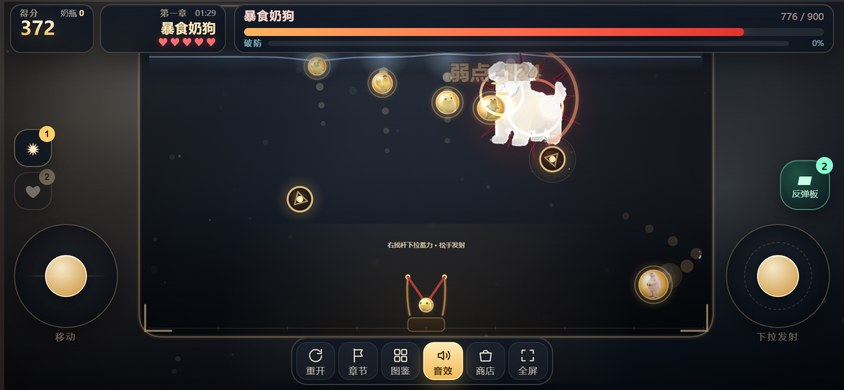
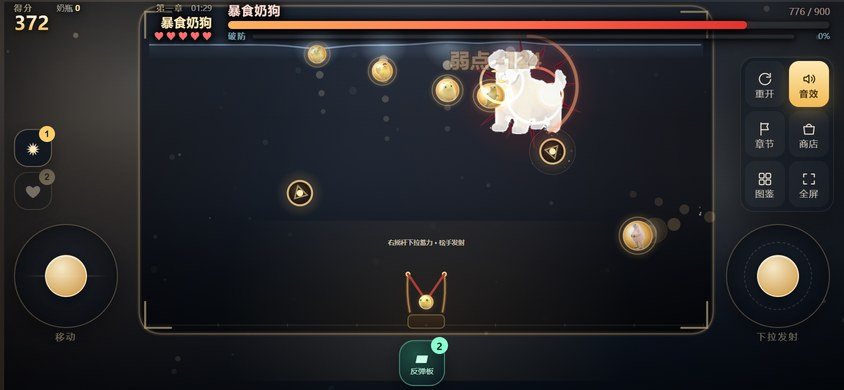
style(横屏): HUD 去黑框改投影；6 个功能键移到右上角；反弹板移到底部正中
1) HUD 去掉卡片底色（得分/章节/Boss 名/血条都改成无背景 + drop-shadow）
   横屏只有 390 高，带底色的卡片正好压在场地顶部、把 Boss 挡掉一截。
   现在只靠投影保证在动态背景上可读，Boss 完全露出；HUD 高度 49 -> 40px。
   血条本体保留（那是玩法信息不是装饰），加描边阴影让它从背景里浮起来。

2) 6 个功能键从底部中央搬到右上角留白区，改成 2 列 x 3 行的图标格
   原来贴在弹弓正下方，拇指操作时容易误触，视觉上也把场地切了一块。
   实测 94x156，完整落在场地右侧留白内（不压场地）。

3) 反弹板按钮移到最底部正中（left:50% + margin-left 居中，
   避开 :active/.arm 的 transform:scale 会覆盖 translateX 的坑）。

4) layout() 修正：横屏不再用 dock 的 top 当场地底边
   （dock 搬到右上角后会把场地压成 58px 高），改为固定底部留白。

冒烟测试补充三条断言：HUD 背景必须为 none 且保留投影、dock 不得进入下半屏/不得压场地、
反弹板距底 <=12px 且不与 dock 重叠。23 项全通过。

diff --git a/index.html b/index.html
@@ -632,47 +632,75 @@ body.playing #bPlate.arm{
 @media (orientation:landscape){
   #hud{
     left:0;right:0;transform:none;width:auto;
-    top:calc(var(--sat) + 4px);padding:0 10px;
+    top:calc(var(--sat) + 2px);padding:0 10px;
     flex-direction:row;align-items:flex-start;gap:8px;
   }
   .hud-row{flex:0 0 auto;gap:6px;align-items:stretch}
-  .hud-card{padding:3px 9px 4px;border-radius:11px}
-  .score-card{min-width:84px}
+
+  /* ---- HUD 去框：只留文字 + 阴影 ----
+     横屏只有 390 高，场地顶边就在 HUD 下方，带底色的卡片会把 Boss 盖住。
+     改成无背景、纯投影：靠 drop-shadow 保证在动态背景上依然读得清。 */
+  .hud-card,.boss-bar{
+    background:none;border:none;border-radius:0;padding:0 2px;
+    backdrop-filter:none;-webkit-backdrop-filter:none;box-shadow:none;
+    filter:drop-shadow(0 1px 3px rgba(0,0,0,.95)) drop-shadow(0 0 6px rgba(0,0,0,.75));
+  }
+  .hud-card{padding:1px 4px 0}
+  .boss-bar{flex:1 1 auto;min-width:0;padding:0 4px}
+  .score-card{min-width:74px}
   .score-card strong{font-size:19px;line-height:1.02}
   .lbl,.best{font-size:8px}
-  /* 中间：Boss 血条撑满剩余宽度 */
-  .boss-bar{
-    flex:1 1 auto;min-width:0;
-    background:linear-gradient(180deg,rgba(13,22,36,.80),rgba(8,14,24,.62));
-    border:1px solid var(--line);border-radius:11px;padding:3px 9px 4px;
-    backdrop-filter:blur(14px);-webkit-backdrop-filter:blur(14px);
-  }
-  .bb-top{font-size:9px}
+  #bossName{font-size:12.5px;text-shadow:0 1px 4px rgba(0,0,0,.9)}
+  #bossHpText{font-size:9px}
+  #levelName{font-size:12.5px;text-shadow:0 1px 4px rgba(0,0,0,.9)}
+  #chapLabel,#timerLabel{text-shadow:0 1px 3px rgba(0,0,0,.9)}
+  .hearts i{filter:drop-shadow(0 1px 3px rgba(0,0,0,.95))}
+  .bb-top{font-size:9px;margin-bottom:3px}
+  /* 血条本体保留（那是玩法信息，不是装饰框），只加深描边让它从背景里浮起来 */
+  .bb-track{box-shadow:0 1px 4px rgba(0,0,0,.75),inset 0 0 0 1px rgba(0,0,0,.35)}
   .brk-row{margin-top:2px;gap:5px}
-  .brk-lbl,.brk-pct{font-size:8px}
+  .brk-lbl,.brk-pct{font-size:8px;text-shadow:0 1px 3px rgba(0,0,0,.9)}
   /* 这行提示横屏太占高度，而且属于上手一次就够的信息 */
   .bb-foot{display:none}
-  #buffs{flex:0 0 auto;max-width:22vw;flex-wrap:wrap;justify-content:flex-end}
-  .buff-chip{font-size:8px;padding:1px 5px}
+  #buffs{flex:0 0 auto;max-width:20vw;flex-wrap:wrap;justify-content:flex-end;gap:3px;
+         filter:drop-shadow(0 1px 3px rgba(0,0,0,.9))}
+  .buff-chip{font-size:8px;padding:1px 5px;background:rgba(10,16,26,.42);border-color:rgba(255,255,255,.10)}
 
-  /* dock 压矮，把高度让给场地 */
+  /* ---- 6 个功能键搬到右上角竖排（原来压在底部中央，紧挨弹弓、容易误触） ----
+     竖排会挡住右摇杆，所以排成 2 列 × 3 行。 */
   #dock{
-    width:auto;left:50%;right:auto;
-    padding:4px;gap:3px;border-radius:16px;
-    bottom:calc(var(--sab) + 5px);
+    left:auto;right:10px;bottom:auto;transform:none;
+    top:calc(var(--sat) + 56px);
+    width:auto;padding:4px;gap:4px;border-radius:14px;
+    flex-direction:column;flex-wrap:wrap;max-height:158px;
+    background:rgba(8,14,24,.42);border-color:rgba(255,255,255,.06);
+    backdrop-filter:blur(10px);-webkit-backdrop-filter:blur(10px);
   }
-  .dock-btn{padding:4px 9px 3px;border-radius:11px;gap:1px}
-  .dock-btn svg{width:17px;height:17px}
-  .dock-btn .tx{font-size:8px}
+  .dock-btn{
+    flex:0 0 auto;width:40px;height:46px;
+    padding:4px 0 3px;border-radius:10px;gap:1px;
+    background:rgba(255,255,255,.035);border:none;
+  }
+  .dock-btn svg{width:16px;height:16px}
+  .dock-btn .tx{font-size:7.5px;letter-spacing:0}
 
-  /* 摇杆：横屏两侧空间充裕，放在 dock 上方 */
+  /* ---- 摇杆 ---- */
   .stick{width:104px;height:104px;bottom:calc(var(--sab) + 62px)}
   .stick .knob{width:42px;height:42px;margin:-21px 0 0 -21px}
   #stickL{left:14px}
   #stickR{right:14px}
 
   #itemBar{bottom:calc(var(--sab) + 180px);left:14px;gap:5px}
-  #bPlate{bottom:calc(var(--sab) + 180px);right:14px;width:50px;height:50px}
+
+  /* ---- 反弹板按钮挪到最底部正中（原来在右侧，和摇杆抢位置） ----
+     用 margin-left 居中而不是 transform，避免和 :active/.arm 的 scale 相互覆盖。 */
+  #bPlate{
+    left:50%;right:auto;margin-left:-23px;
+    bottom:calc(var(--sab) + 4px);
+    width:46px;height:46px;border-radius:15px;
+  }
+  #bPlate .ico{font-size:13px}
+  #bPlate .tx{font-size:7.5px}
 }
 
 /* 竖屏时提示转横屏（原来反过来：横屏提示转竖屏） */
@@ -1597,7 +1625,13 @@ function layout(){
   var dockTop = dock ? dock.getBoundingClientRect().top : (H - SAFE_B - 82);
 
   view.top = 4;
-  view.bottom = Math.round(dockTop - 2);
+  if(W > H){
+    /* 横屏下 dock 已搬到右上角，不能再拿它的 top 当场地底边（否则场地会被压成几十像素）。
+       底部固定留出「反弹板」按钮的高度。 */
+    view.bottom = Math.round(H - SAFE_B - 58);
+  } else {
+    view.bottom = Math.round(dockTop - 2);
+  }
   view.h = view.bottom - view.top;
   /* 宽屏不再死卡 760：宽度跟随高度放开，横屏/桌面场地更宽。
      横屏时两侧要留给摇杆（各约 120~140px），中间尽量放宽——场地越宽，左右闪避越有意义。 */

diff --git a/奶系弹珠_弹射讨伐.html b/奶系弹珠_弹射讨伐.html
@@ -632,47 +632,75 @@ body.playing #bPlate.arm{
 @media (orientation:landscape){
   #hud{
     left:0;right:0;transform:none;width:auto;
-    top:calc(var(--sat) + 4px);padding:0 10px;
+    top:calc(var(--sat) + 2px);padding:0 10px;
     flex-direction:row;align-items:flex-start;gap:8px;
   }
   .hud-row{flex:0 0 auto;gap:6px;align-items:stretch}
-  .hud-card{padding:3px 9px 4px;border-radius:11px}
-  .score-card{min-width:84px}
+
+  /* ---- HUD 去框：只留文字 + 阴影 ----
+     横屏只有 390 高，场地顶边就在 HUD 下方，带底色的卡片会把 Boss 盖住。
+     改成无背景、纯投影：靠 drop-shadow 保证在动态背景上依然读得清。 */
+  .hud-card,.boss-bar{
+    background:none;border:none;border-radius:0;padding:0 2px;
+    backdrop-filter:none;-webkit-backdrop-filter:none;box-shadow:none;
+    filter:drop-shadow(0 1px 3px rgba(0,0,0,.95)) drop-shadow(0 0 6px rgba(0,0,0,.75));
+  }
+  .hud-card{padding:1px 4px 0}
+  .boss-bar{flex:1 1 auto;min-width:0;padding:0 4px}
+  .score-card{min-width:74px}
   .score-card strong{font-size:19px;line-height:1.02}
   .lbl,.best{font-size:8px}
-  /* 中间：Boss 血条撑满剩余宽度 */
-  .boss-bar{
-    flex:1 1 auto;min-width:0;
-    background:linear-gradient(180deg,rgba(13,22,36,.80),rgba(8,14,24,.62));
-    border:1px solid var(--line);border-radius:11px;padding:3px 9px 4px;
-    backdrop-filter:blur(14px);-webkit-backdrop-filter:blur(14px);
-  }
-  .bb-top{font-size:9px}
+  #bossName{font-size:12.5px;text-shadow:0 1px 4px rgba(0,0,0,.9)}
+  #bossHpText{font-size:9px}
+  #levelName{font-size:12.5px;text-shadow:0 1px 4px rgba(0,0,0,.9)}
+  #chapLabel,#timerLabel{text-shadow:0 1px 3px rgba(0,0,0,.9)}
+  .hearts i{filter:drop-shadow(0 1px 3px rgba(0,0,0,.95))}
+  .bb-top{font-size:9px;margin-bottom:3px}
+  /* 血条本体保留（那是玩法信息，不是装饰框），只加深描边让它从背景里浮起来 */
+  .bb-track{box-shadow:0 1px 4px rgba(0,0,0,.75),inset 0 0 0 1px rgba(0,0,0,.35)}
   .brk-row{margin-top:2px;gap:5px}
-  .brk-lbl,.brk-pct{font-size:8px}
+  .brk-lbl,.brk-pct{font-size:8px;text-shadow:0 1px 3px rgba(0,0,0,.9)}
   /* 这行提示横屏太占高度，而且属于上手一次就够的信息 */
   .bb-foot{display:none}
-  #buffs{flex:0 0 auto;max-width:22vw;flex-wrap:wrap;justify-content:flex-end}
-  .buff-chip{font-size:8px;padding:1px 5px}
+  #buffs{flex:0 0 auto;max-width:20vw;flex-wrap:wrap;justify-content:flex-end;gap:3px;
+         filter:drop-shadow(0 1px 3px rgba(0,0,0,.9))}
+  .buff-chip{font-size:8px;padding:1px 5px;background:rgba(10,16,26,.42);border-color:rgba(255,255,255,.10)}
 
-  /* dock 压矮，把高度让给场地 */
+  /* ---- 6 个功能键搬到右上角竖排（原来压在底部中央，紧挨弹弓、容易误触） ----
+     竖排会挡住右摇杆，所以排成 2 列 × 3 行。 */
   #dock{
-    width:auto;left:50%;right:auto;
-    padding:4px;gap:3px;border-radius:16px;
-    bottom:calc(var(--sab) + 5px);
+    left:auto;right:10px;bottom:auto;transform:none;
+    top:calc(var(--sat) + 56px);
+    width:auto;padding:4px;gap:4px;border-radius:14px;
+    flex-direction:column;flex-wrap:wrap;max-height:158px;
+    background:rgba(8,14,24,.42);border-color:rgba(255,255,255,.06);
+    backdrop-filter:blur(10px);-webkit-backdrop-filter:blur(10px);
   }
-  .dock-btn{padding:4px 9px 3px;border-radius:11px;gap:1px}
-  .dock-btn svg{width:17px;height:17px}
-  .dock-btn .tx{font-size:8px}
+  .dock-btn{
+    flex:0 0 auto;width:40px;height:46px;
+    padding:4px 0 3px;border-radius:10px;gap:1px;
+    background:rgba(255,255,255,.035);border:none;
+  }
+  .dock-btn svg{width:16px;height:16px}
+  .dock-btn .tx{font-size:7.5px;letter-spacing:0}
 
-  /* 摇杆：横屏两侧空间充裕，放在 dock 上方 */
+  /* ---- 摇杆 ---- */
   .stick{width:104px;height:104px;bottom:calc(var(--sab) + 62px)}
   .stick .knob{width:42px;height:42px;margin:-21px 0 0 -21px}
   #stickL{left:14px}
   #stickR{right:14px}
 
   #itemBar{bottom:calc(var(--sab) + 180px);left:14px;gap:5px}
-  #bPlate{bottom:calc(var(--sab) + 180px);right:14px;width:50px;height:50px}
+
+  /* ---- 反弹板按钮挪到最底部正中（原来在右侧，和摇杆抢位置） ----
+     用 margin-left 居中而不是 transform，避免和 :active/.arm 的 scale 相互覆盖。 */
+  #bPlate{
+    left:50%;right:auto;margin-left:-23px;
+    bottom:calc(var(--sab) + 4px);
+    width:46px;height:46px;border-radius:15px;
+  }
+  #bPlate .ico{font-size:13px}
+  #bPlate .tx{font-size:7.5px}
 }
 
 /* 竖屏时提示转横屏（原来反过来：横屏提示转竖屏） */
@@ -1597,7 +1625,13 @@ function layout(){
   var dockTop = dock ? dock.getBoundingClientRect().top : (H - SAFE_B - 82);
 
   view.top = 4;
-  view.bottom = Math.round(dockTop - 2);
+  if(W > H){
+    /* 横屏下 dock 已搬到右上角，不能再拿它的 top 当场地底边（否则场地会被压成几十像素）。
+       底部固定留出「反弹板」按钮的高度。 */
+    view.bottom = Math.round(H - SAFE_B - 58);
+  } else {
+    view.bottom = Math.round(dockTop - 2);
+  }
   view.h = view.bottom - view.top;
   /* 宽屏不再死卡 760：宽度跟随高度放开，横屏/桌面场地更宽。
      横屏时两侧要留给摇杆（各约 120~140px），中间尽量放宽——场地越宽，左右闪避越有意义。 */

diff --git a/src/parts/style.css b/src/parts/style.css
@@ -623,47 +623,75 @@ body.playing #bPlate.arm{
 @media (orientation:landscape){
   #hud{
     left:0;right:0;transform:none;width:auto;
-    top:calc(var(--sat) + 4px);padding:0 10px;
+    top:calc(var(--sat) + 2px);padding:0 10px;
     flex-direction:row;align-items:flex-start;gap:8px;
   }
   .hud-row{flex:0 0 auto;gap:6px;align-items:stretch}
-  .hud-card{padding:3px 9px 4px;border-radius:11px}
-  .score-card{min-width:84px}
+
+  /* ---- HUD 去框：只留文字 + 阴影 ----
+     横屏只有 390 高，场地顶边就在 HUD 下方，带底色的卡片会把 Boss 盖住。
+     改成无背景、纯投影：靠 drop-shadow 保证在动态背景上依然读得清。 */
+  .hud-card,.boss-bar{
+    background:none;border:none;border-radius:0;padding:0 2px;
+    backdrop-filter:none;-webkit-backdrop-filter:none;box-shadow:none;
+    filter:drop-shadow(0 1px 3px rgba(0,0,0,.95)) drop-shadow(0 0 6px rgba(0,0,0,.75));
+  }
+  .hud-card{padding:1px 4px 0}
+  .boss-bar{flex:1 1 auto;min-width:0;padding:0 4px}
+  .score-card{min-width:74px}
   .score-card strong{font-size:19px;line-height:1.02}
   .lbl,.best{font-size:8px}
-  /* 中间：Boss 血条撑满剩余宽度 */
-  .boss-bar{
-    flex:1 1 auto;min-width:0;
-    background:linear-gradient(180deg,rgba(13,22,36,.80),rgba(8,14,24,.62));
-    border:1px solid var(--line);border-radius:11px;padding:3px 9px 4px;
-    backdrop-filter:blur(14px);-webkit-backdrop-filter:blur(14px);
-  }
-  .bb-top{font-size:9px}
+  #bossName{font-size:12.5px;text-shadow:0 1px 4px rgba(0,0,0,.9)}
+  #bossHpText{font-size:9px}
+  #levelName{font-size:12.5px;text-shadow:0 1px 4px rgba(0,0,0,.9)}
+  #chapLabel,#timerLabel{text-shadow:0 1px 3px rgba(0,0,0,.9)}
+  .hearts i{filter:drop-shadow(0 1px 3px rgba(0,0,0,.95))}
+  .bb-top{font-size:9px;margin-bottom:3px}
+  /* 血条本体保留（那是玩法信息，不是装饰框），只加深描边让它从背景里浮起来 */
+  .bb-track{box-shadow:0 1px 4px rgba(0,0,0,.75),inset 0 0 0 1px rgba(0,0,0,.35)}
   .brk-row{margin-top:2px;gap:5px}
-  .brk-lbl,.brk-pct{font-size:8px}
+  .brk-lbl,.brk-pct{font-size:8px;text-shadow:0 1px 3px rgba(0,0,0,.9)}
   /* 这行提示横屏太占高度，而且属于上手一次就够的信息 */
   .bb-foot{display:none}
-  #buffs{flex:0 0 auto;max-width:22vw;flex-wrap:wrap;justify-content:flex-end}
-  .buff-chip{font-size:8px;padding:1px 5px}
+  #buffs{flex:0 0 auto;max-width:20vw;flex-wrap:wrap;justify-content:flex-end;gap:3px;
+         filter:drop-shadow(0 1px 3px rgba(0,0,0,.9))}
+  .buff-chip{font-size:8px;padding:1px 5px;background:rgba(10,16,26,.42);border-color:rgba(255,255,255,.10)}
 
-  /* dock 压矮，把高度让给场地 */
+  /* ---- 6 个功能键搬到右上角竖排（原来压在底部中央，紧挨弹弓、容易误触） ----
+     竖排会挡住右摇杆，所以排成 2 列 × 3 行。 */
   #dock{
-    width:auto;left:50%;right:auto;
-    padding:4px;gap:3px;border-radius:16px;
-    bottom:calc(var(--sab) + 5px);
+    left:auto;right:10px;bottom:auto;transform:none;
+    top:calc(var(--sat) + 56px);
+    width:auto;padding:4px;gap:4px;border-radius:14px;
+    flex-direction:column;flex-wrap:wrap;max-height:158px;
+    background:rgba(8,14,24,.42);border-color:rgba(255,255,255,.06);
+    backdrop-filter:blur(10px);-webkit-backdrop-filter:blur(10px);
   }
-  .dock-btn{padding:4px 9px 3px;border-radius:11px;gap:1px}
-  .dock-btn svg{width:17px;height:17px}
-  .dock-btn .tx{font-size:8px}
+  .dock-btn{
+    flex:0 0 auto;width:40px;height:46px;
+    padding:4px 0 3px;border-radius:10px;gap:1px;
+    background:rgba(255,255,255,.035);border:none;
+  }
+  .dock-btn svg{width:16px;height:16px}
+  .dock-btn .tx{font-size:7.5px;letter-spacing:0}
 
-  /* 摇杆：横屏两侧空间充裕，放在 dock 上方 */
+  /* ---- 摇杆 ---- */
   .stick{width:104px;height:104px;bottom:calc(var(--sab) + 62px)}
   .stick .knob{width:42px;height:42px;margin:-21px 0 0 -21px}
   #stickL{left:14px}
   #stickR{right:14px}
 
   #itemBar{bottom:calc(var(--sab) + 180px);left:14px;gap:5px}
-  #bPlate{bottom:calc(var(--sab) + 180px);right:14px;width:50px;height:50px}
+
+  /* ---- 反弹板按钮挪到最底部正中（原来在右侧，和摇杆抢位置） ----
+     用 margin-left 居中而不是 transform，避免和 :active/.arm 的 scale 相互覆盖。 */
+  #bPlate{
+    left:50%;right:auto;margin-left:-23px;
+    bottom:calc(var(--sab) + 4px);
+    width:46px;height:46px;border-radius:15px;
+  }
+  #bPlate .ico{font-size:13px}
+  #bPlate .tx{font-size:7.5px}
 }
 
 /* 竖屏时提示转横屏（原来反过来：横屏提示转竖屏） */

diff --git a/src/parts/js/04-images.js b/src/parts/js/04-images.js
@@ -69,7 +69,13 @@ function layout(){
   var dockTop = dock ? dock.getBoundingClientRect().top : (H - SAFE_B - 82);
 
   view.top = 4;
-  view.bottom = Math.round(dockTop - 2);
+  if(W > H){
+    /* 横屏下 dock 已搬到右上角，不能再拿它的 top 当场地底边（否则场地会被压成几十像素）。
+       底部固定留出「反弹板」按钮的高度。 */
+    view.bottom = Math.round(H - SAFE_B - 58);
+  } else {
+    view.bottom = Math.round(dockTop - 2);
+  }
   view.h = view.bottom - view.top;
   /* 宽屏不再死卡 760：宽度跟随高度放开，横屏/桌面场地更宽。
      横屏时两侧要留给摇杆（各约 120~140px），中间尽量放宽——场地越宽，左右闪避越有意义。 */

diff --git a/README.md b/README.md
@@ -110,9 +110,12 @@
 ## 画面
 
 - **横屏优先布局**：竖屏的 HUD 是上下堆叠（约 137px 高），横屏只有 390 高时场地会只剩 143px，
-  基本没法玩。所以横屏把 HUD 压成一条横带（实测 **49px**）：左=得分/奶瓶，中=Boss 血条+破防，
-  右=章节/生命；dock 也压矮，可玩带从 143px 提到 **222px**，场地宽度放到 574px，
-  两侧留给摇杆。竖屏才弹「请横屏游玩」。
+  基本没法玩。所以横屏把 HUD 压成一条**无底色的横带**（实测 **40px**）：左=得分/奶瓶，
+  中=Boss 血条+破防，右=章节/生命；不画卡片背景、只留投影，避免挡住场地顶部的 Boss。
+  可玩带从 143px 提到 **232px**，场地宽度 574px。
+- **按键不压场地**：横屏时 6 个功能键（重开/章节/图鉴/音效/商店/全屏）收成 2×3 图标格移到**右上角**，
+  不再像原来那样压在底部弹弓附近造成误触；「反弹板」按钮移到**最底部正中**。
+  摇杆在左右下角，道具栏在左中。竖屏保持原布局。
 - **动态背景**：不再用静态图，改成程序化生成的场景——两层柔光云以不同速度反向漂移，叠加缓慢上浮的
   奶滴粒子，并随开场有缩放呼吸。场地留了透光，暖金色光晕会从场地内部透出来；零素材开销。
   两层云在 resize 时预渲染成离屏画布，每帧只做两次 `drawImage`。
